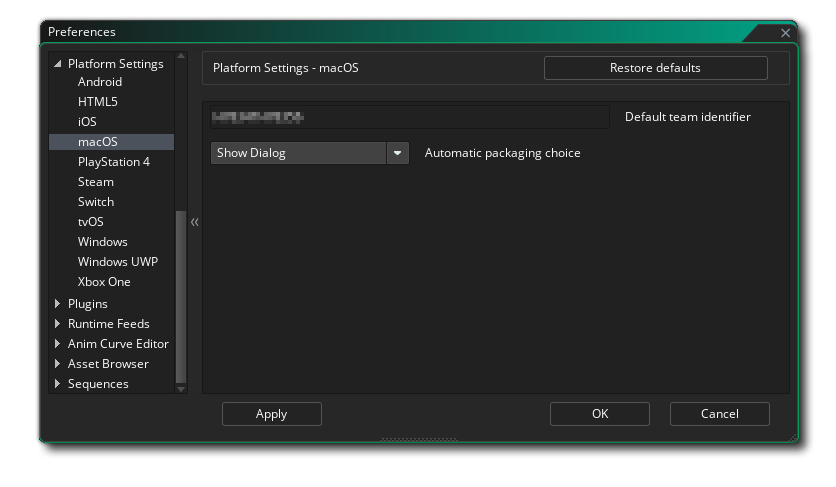
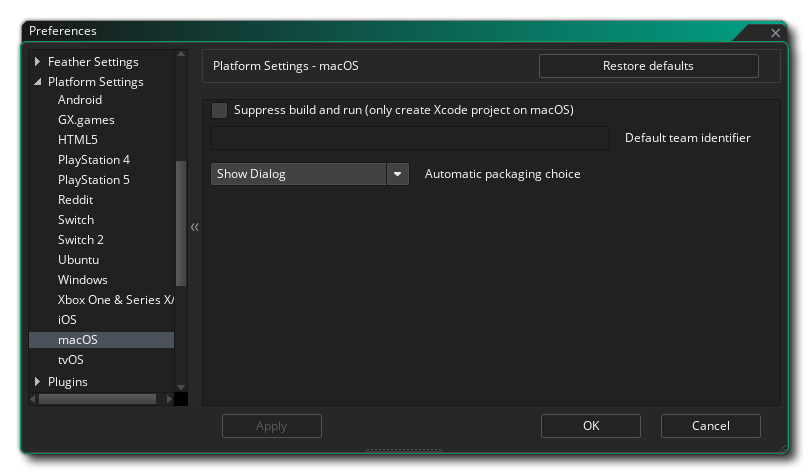
docs(feature): [macOS YYC] Add early exit to just generate the XCode project https://github.com/YoYoGames/GameMaker-Bugs/issues/13253

diff --git a/Manual/contents/Setting_Up_And_Version_Information/Platform_Preferences/macOS.htm b/Manual/contents/Setting_Up_And_Version_Information/Platform_Preferences/macOS.htm
@@ -18,6 +18,7 @@
   <p>The macOS preferences have the following options:</p>
   <p><img alt="macOS Preferences" class="center" src="../../assets/Images/Setup_And_Version/Platform_Preferences/macOS_Prefs.png" /></p>
   <ul class="colour">
+    <li><strong>Suppress build and run</strong>: When this is enabled, building for macOS will only create the Xcode project but will not further compile it and run the game - this will have to be handled separately on the Mac where the Xcode project was built. This is only supported for YYC, not VM.</li>
     <li><strong>Default team identifier</strong>: Here you can add your default Team Identifier, <a href="https://help.apple.com/xcode/mac/current/#/dev23aab79b4">as assigned to you by Apple</a>. This Team Id will be used when your game files are sent to Xcode to build the app, and will permit Xcode to generate the required signing certificates. Note that this setting will be applied by default to all games built for macOS, but it can be overridden on a per-project basis from the General macOS <a href="../../Settings/Game_Options/macOS.htm">Game Options</a>.</li>
     <li><strong>Automatic packaging choice</strong>: Here you can set a default preference for creating an executable for the macOS target. The &quot;Show Dialog&quot; option will always show a dialog before creating an executable, asking you to choose between DMG and Zip, but you can set this option to either of those in the Preferences to skip that dialog. Note that enabling &quot;Remember Package Option&quot; on the dialog will also set this option to the selected package type.</li>
   </ul>
@@ -31,7 +32,7 @@
         <div style="float:right">Next: <a data-xref="{title}" href="Windows.htm">Windows</a></div>
       </div>
     </div>
-    <h5><span data-keyref="Copyright Notice">© Copyright YoYo Games Ltd. 2025 All Rights Reserved</span></h5>
+    <h5><span data-keyref="Copyright Notice">© Copyright YoYo Games Ltd. 2026 All Rights Reserved</span></h5>
   </div>
   <!-- KEYWORDS
 macOS Preferences
